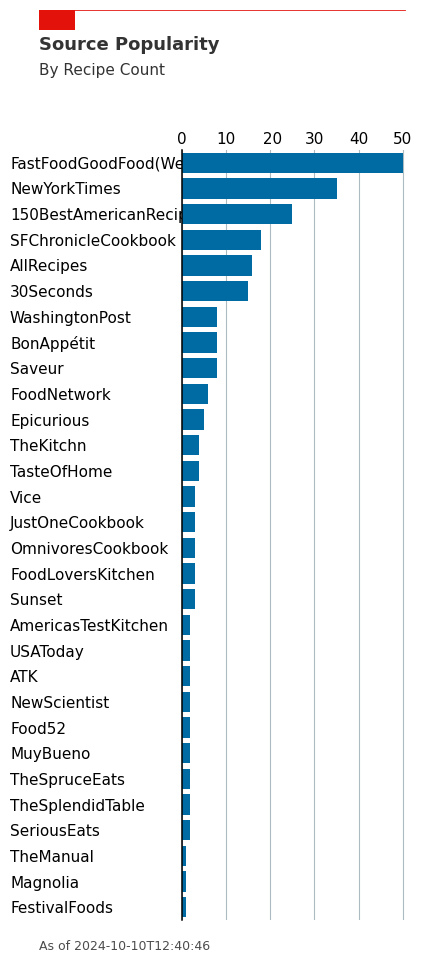
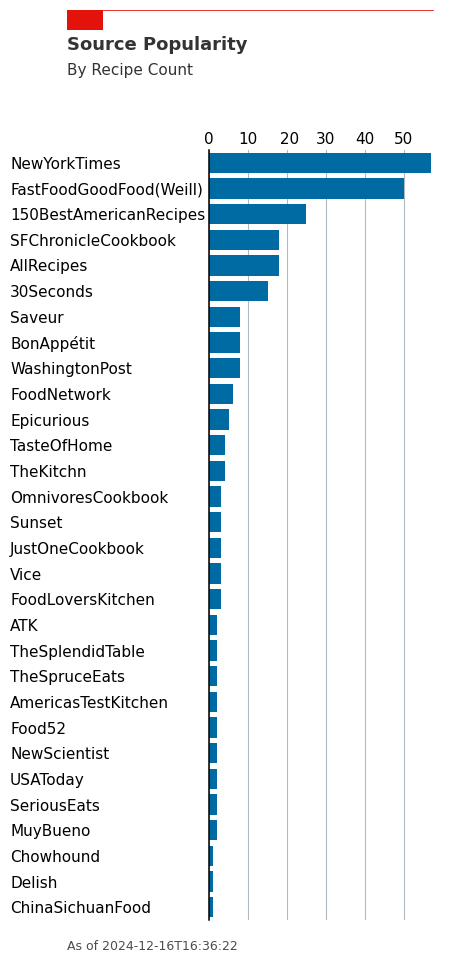
Clean FA. Add external URL link if available. Clean stats a bit.

diff --git a/app/templates/main/hx/edit_field_url_.html b/app/templates/main/hx/edit_field_url_.html
@@ -11,7 +11,17 @@
 	     hx-swap="outerHTML"
 	     hx-target="#field_url_"
       >
+
+      # if document.url_
+	<a href="{{ document.url_ }}" target="_new">
+	  <span class="icon is-small is-right responsive-font">
+	    <i class="fa-regular fa-arrow-up-right-from-square"></i>
+	  </span>
+	</a>
+      # endif
+
       {% include "main/hx/_status_icon.html" %}
     </div>
+
   </div>
 </div>

diff --git a/app/templates/main/hx/_status_icon.html b/app/templates/main/hx/_status_icon.html
@@ -1,5 +1,5 @@
 # if status:
-  <span style="vertical-align: middle;" class="icon {{status.icon.color}} is-size-4 fade-out mr-4">
+  <span style="vertical-align: middle;" class="icon {{status.icon.color}} is-size-4 fade-out ml-4">
     <i class="{{status.icon.icon}}"></i>
   </span>
   # if status.error_msg:

diff --git a/app/templates/main/hx/display_table_tr.html b/app/templates/main/hx/display_table_tr.html
@@ -24,7 +24,7 @@
   {# Title #}
   # if render_display_column(current_user.category, "title"):
   <td style="vertical-align: middle;">
-    <a href="/view/{{ document.id }}">
+    <a href="/view/{{ document.id }}" target="_new">
       {{ document.title }}
     </a>
   </td>

diff --git a/app/templates/stats/stats.html b/app/templates/stats/stats.html
@@ -33,7 +33,7 @@
 	<td>
 	  <a href="/edit/{{ document.id }}">
 	    <span class="icon is-small is-right responsive-font">
-	      <i class="fa-regular fa-pen-to-square"></i>
+	      <i class="fas fa-pen-to-square"></i>
 	    </span>
 	  </a>
 	  &nbsp;

diff --git a/app/templates/admin/hx/tr.html b/app/templates/admin/hx/tr.html
@@ -10,7 +10,7 @@
       hx-target="closest tr"
       hx-vals='{"name": "{{ entity_value }}"}'>
       <span class="icon is-small">
-	<i class="fa-regular fa-trash-can"></i>
+	<i class="fas fa-trash-can"></i>
       </span>
     </button>
 

diff --git a/app/blueprints/stats/operations.py b/app/blueprints/stats/operations.py
@@ -53,14 +53,14 @@ def create_bar_chart(datum: list[str, int], config: dict) -> str:
     # Setup data
     column_1 = config.get("data_name")
     datum = pd.DataFrame(datum, columns=[column_1, "count"])
-    datum_bar = datum.sort_values(by="count")[-render_top_n:]
+    datum_bar = datum.sort_values(by="count")[-render_top_n:]  # Limit to the "top-N"!
 
     # Plot data
     ax.barh(datum_bar[column_1], datum_bar["count"], color="#006BA2", zorder=2)
 
     # Set custom labels for x-axis
-    ax.set_xticks([0, 10, 20, 30, 40, 50, 60])
-    ax.set_xticklabels(["0", "10", " 20", "30", "40", "50", "60"])
+    ax.set_xticks([0, 10, 20, 30, 40, 50, 60, 70, 80])
+    ax.set_xticklabels(["0", "10", " 20", "30", "40", "50", "60", "70", "80"])
     ax.xaxis.set_tick_params(
         labeltop=True,  # Put x-axis labels on top
         labelbottom=False,  # Set no x-axis labels on bottom
@@ -73,7 +73,7 @@ def create_bar_chart(datum: list[str, int], config: dict) -> str:
     ax.set_yticks(datum_bar[column_1])
     ax.set_yticklabels(datum_bar[column_1], ha="left")  # Set labels (again) but now set horizontal alignment to left.
     ax.yaxis.set_tick_params(
-        pad=120,  # Pad tick labels so they don"t go over y-axis
+        pad=140,  # Pad tick labels so they don"t go over y-axis
         labelsize=11,  # Set label size
         bottom=False,  # Set no ticks on bottom/left
     )
